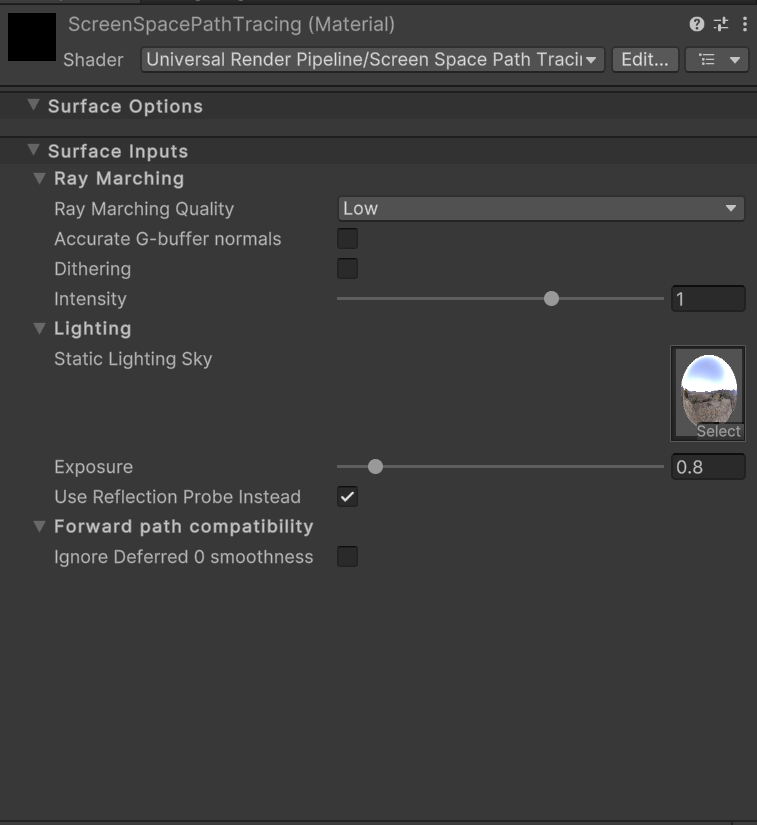
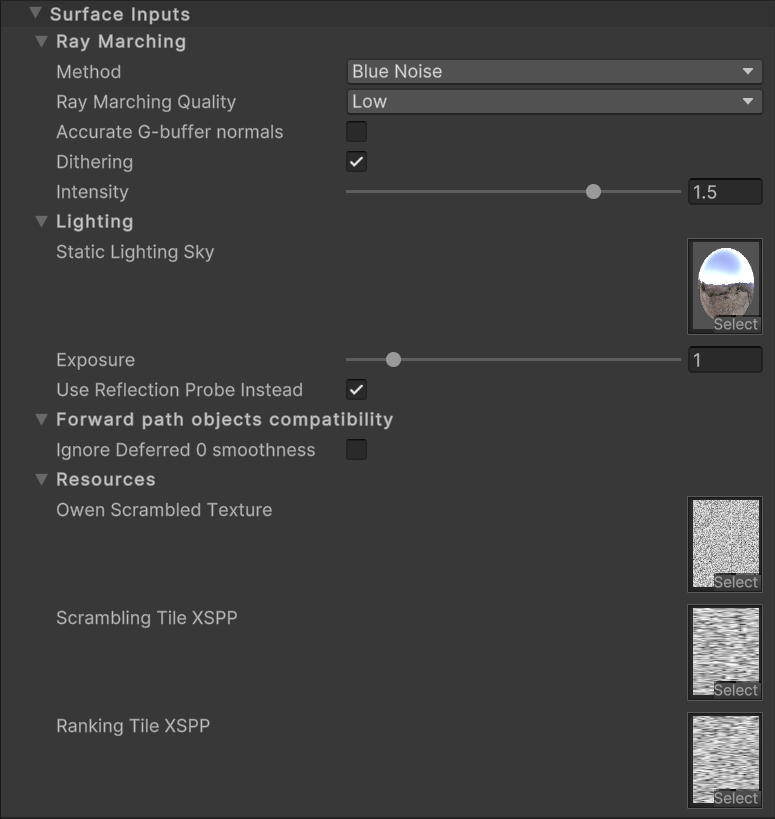
Performance Improvements
1. Remove unnecessary lines in "PathTracing.hlsl".

2. Update documentation.

3. Fix an issue of losing depth render target when switching accurate thickness mode.

diff --git a/Assets/Shaders/Accumulation/ScreenSpacePathTracingAccumulation.cs b/Assets/Shaders/Accumulation/ScreenSpacePathTracingAccumulation.cs
@@ -448,7 +448,7 @@ public class ScreenSpacePathTracingAccumulation : ScriptableRendererFeature
                 RenderingUtils.ReAllocateIfNeeded(ref m_BackDepthHandle, depthDesc, FilterMode.Point, TextureWrapMode.Clamp, name: "_CameraBackDepthTexture");
                 cmd.SetGlobalTexture("_CameraBackDepthTexture", m_BackDepthHandle);
 
-                ConfigureTarget(m_BackDepthHandle);
+                ConfigureTarget(m_BackDepthHandle, m_BackDepthHandle);
                 ConfigureClear(ClearFlag.Depth, Color.clear);
             }
             else if (m_AccurateThickness == AccurateThickness.DepthNormals)

diff --git a/Documentation/Documentation.md b/Documentation/Documentation.md
@@ -23,9 +23,11 @@ UnitySSPathTracingURP requires:
 Material Setup
 -------------
 
-Ray Marching Quality: Low should be enough for small scenes.
+Method: Blue Noise is more performance expensive, but is usually better.
 
-Dithering: Dithering can reduce the banding artifacts in sharp reflections.
+Ray Marching Quality: Very Low should be enough for small scenes.
+
+Dithering: Dithering can reduce the banding artifacts in sharp reflection & refraction.
 
 Use Reflection Probe Instead: Using Reflection Probe as the environment lighting. (Need to add **"PathTracingSetReflectionProbe.cs"** to the camera)
 
@@ -42,7 +44,13 @@ In order to avoid double environment lighting, please disable Environment Reflec
 Extensions
 -------------
 
-Accurate Thickness: Render the backface depth of scene geometries to improve the accuracy of screen space path tracing.
+Accurate Thickness: Render the backface data of scene geometries to improve the accuracy of screen space path tracing.
+
+- Disable: Do not render back-face data.
+
+- Depth: Render back-face depth.
+
+- Depth + Normals: Render back-face depth and normals. This is suggested when refraction is enabled.
 
  ![AccurateThickness](https://github.com/jiaozi158/UnitySSPathTracingURP/blob/main/Documentation/Images/Settings/AccurateThickness.png)
 
